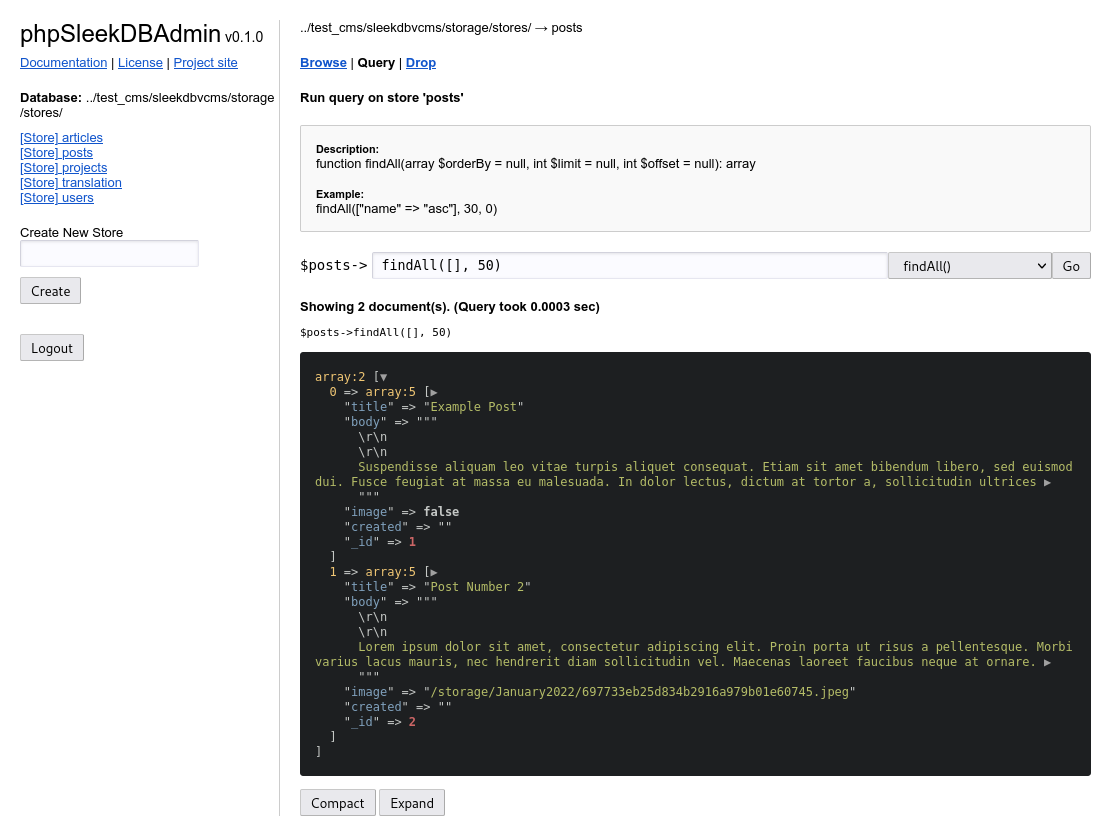
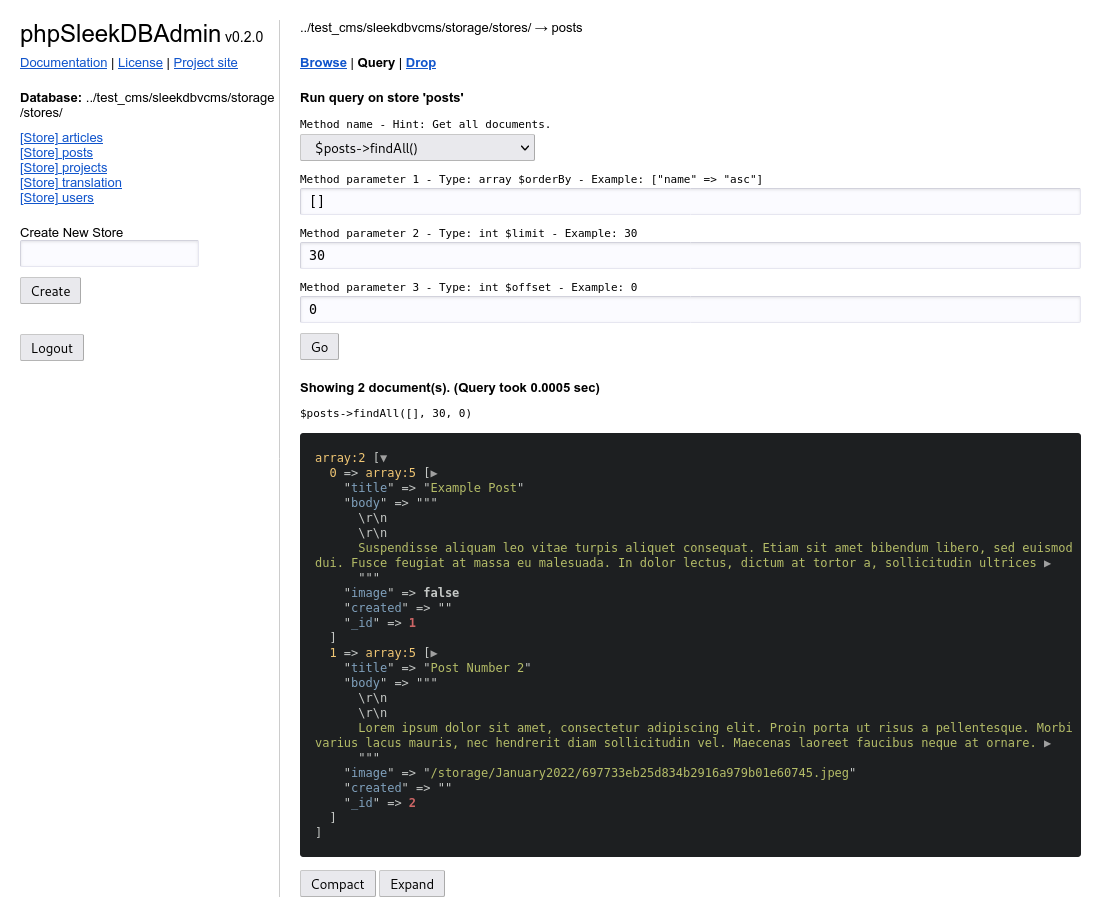
Add hints. Bump version to 0.2.0, minor fixes, update readme.md

diff --git a/phpsleekdbadmin.php b/phpsleekdbadmin.php
@@ -1,8 +1,8 @@
 <?php
 //	Project: phpSleekDBAdmin (https://kalis.no)
-//	Version: 0.1.0
+//	Version: 0.2.0
 //	Summary: PHP-based admin tool to manage SQLite2 and SQLite3 databases on the web
-//	Last updated: 2022-01-18
+//	Last updated: 2022-01-20
 //	Developers:
 //	   Matteus Kalis (post [-at-] kalis [-dot-] no)
 //
@@ -394,16 +394,15 @@ function render_view_query() {
       $data = $db_store->removeFieldsById($id, $fieldsToRemove);
     }
 
-    if ($function_name === 'deleteById') {
-      $id = $query_param_1;
-      $data = $db_store->deleteById($id);
-    }
-
     if ($function_name === 'deleteBy') {
       $criteria = @$str2arr->scan($query_param_1);
       $data = $db_store->deleteBy($criteria);
     }
 
+    if ($function_name === 'deleteById') {
+      $id = $query_param_1;
+      $data = $db_store->deleteById($id);
+    }
   } catch (Throwable $e) {
     $data = $e->getMessage();
   }
@@ -442,7 +441,7 @@ function render_view_query() {
         <input type="hidden" name="action" value="<?php echo $action; ?>">
         <div class="seperator"></div>
 
-        <code><span style="font-size: 11px;">Method name</span></code>
+        <code><span style="font-size: 11px;">Method name - Hint: <span data-hint></span></span></code>
         <div style="height: 2px;"></div>
         <select data-select name="function_name">
           <option value="findAll" <?php if ($function_name === 'findAll') { ?>selected<?php } ?> >$<?php echo $store; ?>-&gt;findAll()</option>
@@ -457,11 +456,11 @@ function render_view_query() {
           <option value="updateOrInsert" <?php if ($function_name === 'updateOrInsert') { ?>selected<?php } ?> >$<?php echo $store; ?>-&gt;updateOrInsert()</option>
           <option value="updateOrInsertMany" <?php if ($function_name === 'updateOrInsertMany') { ?>selected<?php } ?> >$<?php echo $store; ?>-&gt;updateOrInsertMany()</option>
           <option value="removeFieldsById" <?php if ($function_name === 'removeFieldsById') { ?>selected<?php } ?> >$<?php echo $store; ?>-&gt;removeFieldsById()</option>
-          <option value="deleteById" <?php if ($function_name === 'deleteById') { ?>selected<?php } ?> >$<?php echo $store; ?>-&gt;deleteById()</option>
           <option value="deleteBy" <?php if ($function_name === 'deleteBy') { ?>selected<?php } ?> >$<?php echo $store; ?>-&gt;deleteBy()</option>
+          <option value="deleteById" <?php if ($function_name === 'deleteById') { ?>selected<?php } ?> >$<?php echo $store; ?>-&gt;deleteById()</option>
         </select>
 
-         <div style="display: none;" data-function-param-1>
+        <div style="display: none;" data-function-param-1>
           <div class="seperator"></div>
           <code style="font-size: 11px;">Method parameter 1 - Type: array $orderBy - Example: ["name" =&gt; "asc"]</code>
           <div style="height: 2px;"></div>
@@ -556,12 +555,17 @@ function render_view_query() {
 
           if (isFirstLoad) {
             $option = $('option[value=' + functionName + ']');
-            $option.attr('selected','selected');
+            $option.prop('selected', true);
+            console.log('isFirstLoad', isFirstLoad);
+            console.log('functionName', functionName);
+            console.log('$option', $option);
           }
 
           var value = $option.val();
 
           if (value === 'findAll') {
+            $('[data-hint]').html('Get all documents.');
+
             $('[data-function-param-1]').show().find('code').html('Method parameter 1 - Type: array $orderBy - Example: ["name" =&gt; "asc"]');
             $('[data-function-param-1]').find('input').val(queryParam1 && isFirstLoad ? queryParam1 : '[]').caretTo('[', true);
 
@@ -573,11 +577,15 @@ function render_view_query() {
           }
 
           if (value === 'findById') {
+            $('[data-hint]').html('Get a single document by _id.');
+
             $('[data-function-param-1]').show().find('code').html('Method parameter 1 - Type: int|string $id - Example: 1');
             $('[data-function-param-1]').find('input').val(queryParam1 && isFirstLoad ? queryParam1 : '').caretTo('', true);
           }
 
           if (value === 'findBy') {
+            $('[data-hint]').html('Get one or multiple documents by chosen criteria.');
+
             $('[data-function-param-1]').show().find('code').html('Method parameter 1 - Type: array $criteria - Example: ["author", "=", "Mike"]');
             $('[data-function-param-1]').find('input').val(queryParam1 && isFirstLoad ? queryParam1 : '[]').caretTo('[', true);
 
@@ -592,25 +600,33 @@ function render_view_query() {
           }
 
           if (value === 'findOneBy') {
+            $('[data-hint]').html('Get one document by chosen criteria.');
+
             $('[data-function-param-1]').show().find('code').html('Method parameter 1 - Type: array $criteria - Example: ["author", "=", "Mike"]');
             $('[data-function-param-1]').find('input').val(queryParam1 && isFirstLoad ? queryParam1 : '[]').caretTo('[', true);
           }
 
           if (value === 'count') {
-            // No params
+            $('[data-hint]').html('Get the amount of all documents stored.');
           }
 
           if (value === 'insert') {
+            $('[data-hint]').html('Insert a single document.');
+
             $('[data-function-param-1]').show().find('code').html('Method parameter 1 - Type: array $data - Example: ["name" => "Josh", "age" => 23, "city" => "london"]');
             $('[data-function-param-1]').find('input').val(queryParam1 && isFirstLoad ? queryParam1 : '[]').caretTo('[', true);
           }
 
           if (value === 'insertMany') {
+            $('[data-hint]').html('Insert multiple documents.');
+
             $('[data-function-param-1]').show().find('code').html('Method parameter 1 - Type: array $data - Example: [ ["name" => "Josh", "age" => 23], ["name" => "Mike", "age" => 19], ... ]');
             $('[data-function-param-1]').find('input').val(queryParam1 && isFirstLoad ? queryParam1 : '[]').caretTo('[', true);
           }
 
           if (value === 'updateById') {
+            $('[data-hint]').html('Update parts of a document.');
+
             $('[data-function-param-1]').show().find('code').html('Method parameter 1 - Type: int|string $id - Example: 1');
             $('[data-function-param-1]').find('input').val(queryParam1 && isFirstLoad ? queryParam1 : '').caretTo('', true);
 
@@ -619,12 +635,16 @@ function render_view_query() {
           }
 
           if (value === 'update') {
+            $('[data-hint]').html('Update a whole document.');
+
             $('[data-function-param-1]').show().find('code').html('Method parameter 1 - Type: array $updatable - Example: [ ["_id" => 12, "title" => "SleekDB rocks!", ...], ["_id" => 13, "title" => "Multiple Updates", ...], ... ]');
             $('[data-function-param-1]').find('input').val(queryParam1 && isFirstLoad ? queryParam1 : '[]').caretTo('[', true);
           }
 
 
           if (value === 'updateOrInsert') {
+            $('[data-hint]').html('Update or insert one whole document.');
+
             $('[data-function-param-1]').show().find('code').html('Method parameter 1 - Type: array $data - Example: ["_id" => 23, "name" => "John", ...  ]');
             $('[data-function-param-1]').find('input').val(queryParam1 && isFirstLoad ? queryParam1 : '[]').caretTo('[', true);
 
@@ -633,6 +653,8 @@ function render_view_query() {
           }
 
           if (value === 'updateOrInsertMany') {
+            $('[data-hint]').html('Update or insert multiple whole documents.');
+
             $('[data-function-param-1]').show().find('code').html('Method parameter 1 - Type: array $data - Example: [ ["name" => "Josh", "age" => 23], ["name" => "Mike", "age" => 19], ... ]');
             $('[data-function-param-1]').find('input').val(queryParam1 && isFirstLoad ? queryParam1 : '[]').caretTo('[', true);
 
@@ -641,6 +663,8 @@ function render_view_query() {
           }
 
           if (value === 'removeFieldsById') {
+            $('[data-hint]').html('Remove parts of a document.');
+
             $('[data-function-param-1]').show().find('code').html('Method parameter 1 - Type: int|string $id - Example: 1');
             $('[data-function-param-1]').find('input').val(queryParam1 && isFirstLoad ? queryParam1 : '').caretTo('', true);
 
@@ -648,14 +672,18 @@ function render_view_query() {
             $('[data-function-param-2]').find('input').val(queryParam2 && isFirstLoad ? queryParam2 : '[]');
           }
 
-          if (value === 'deleteById') {
-            $('[data-function-param-1]').show().find('code').html('Method parameter 1 - Type: int|string $id - Example: 1');
-            $('[data-function-param-1]').find('input').val(queryParam1 && isFirstLoad ? queryParam1 : '').caretTo('', true);
-          }
-
           if (value === 'deleteBy') {
+            $('[data-help]').html('Delete one or multiple documents by chosen criteria.');
+
             $('[data-function-param-1]').show().find('code').html('Method parameter 1 - Type: array $criteria - Example: ["name", "=", "Joshua Edwards"]]');
             $('[data-function-param-1]').find('input').val(queryParam1 && isFirstLoad ? queryParam1 : '[]').caretTo('[', true);
+          }
+
+          if (value === 'deleteById') {
+            $('[data-hint]').html('Delete one document by _id.');
+
+            $('[data-function-param-1]').show().find('code').html('Method parameter 1 - Type: int|string $id - Example: 1');
+            $('[data-function-param-1]').find('input').val(queryParam1 && isFirstLoad ? queryParam1 : '').caretTo('', true);
           }
         }
 
@@ -746,7 +774,7 @@ function render_html($stores, $html) {
         <div class="display-flex">
           <aside class="margins" style="flex: initial; width: 260px; border-right: 1px solid #ccc;">
             <span class="logo">phpSleekDBAdmin</span>
-            <span class="version">v0.1.0</span>
+            <span class="version">v0.2.0</span>
             <div style="height: 7px;"></div>
             <a href="https://github.com/galanonym/phpsleekdbadmin" target="_blank">Documentation</a>
             <span> | </span>
@@ -805,7 +833,7 @@ function render_view_login() {
         <div style="width: 250px; margin: 0 auto;">
           <div class="seperator"></div>
           <span class="logo">phpSleekDBAdmin</span>
-          <span class="version">v0.1.0</span>
+          <span class="version">v0.2.0</span>
           <div class="seperator"></div>
           <div class="seperator"></div>
           <form method="POST">

diff --git a/readme.md b/readme.md
@@ -27,7 +27,7 @@ git clone git@github.com:galanonym/phpsleekdbadmin.git && cd phpsleekdbadmin && 
 1.  Rename `phpsleekdbadmin.config.sample.php` into `phpsleekdbadmin.config.php`
 2.  Open `phpsleekdbadmin.config.php` (or `phpsleekdbadmin.php`) in
     a text editor.
-3.  Specify the directory as the value of the `$directory` variable. 
+3.  Specify the directory as the value of the `$directory` variable.
 4.  Modify the `$password` variable to be the password used for gaining access
     to the phpSleekDBAdmin tool.
 5.  Open a web browser and navigate to the `phpsleekdbadmin/phpsleekdbadmin.php` file. You will be prompted to enter a password. Use the same password you set in step 4.
@@ -36,6 +36,13 @@ git clone git@github.com:galanonym/phpsleekdbadmin.git && cd phpsleekdbadmin && 
 
 ![alt text](https://github.com/galanonym/phpsleekdbadmin/blob/main/screenshot.png?raw=true)
 
-## Warning
+## Changelog
 
-This library is using `eval()` for running queries. We filter out `;` but it may still be a security hole. Do not use in production. 
+0.2.0 (2022-01-20)
+- feature    Removed eval()
+- feature    Add support for updateOrInsert() and updateOrInsertMany()
+- issue #1   Use microtime() directly
+
+0.1.0 (2022-01-18)
+- Initial release
+
